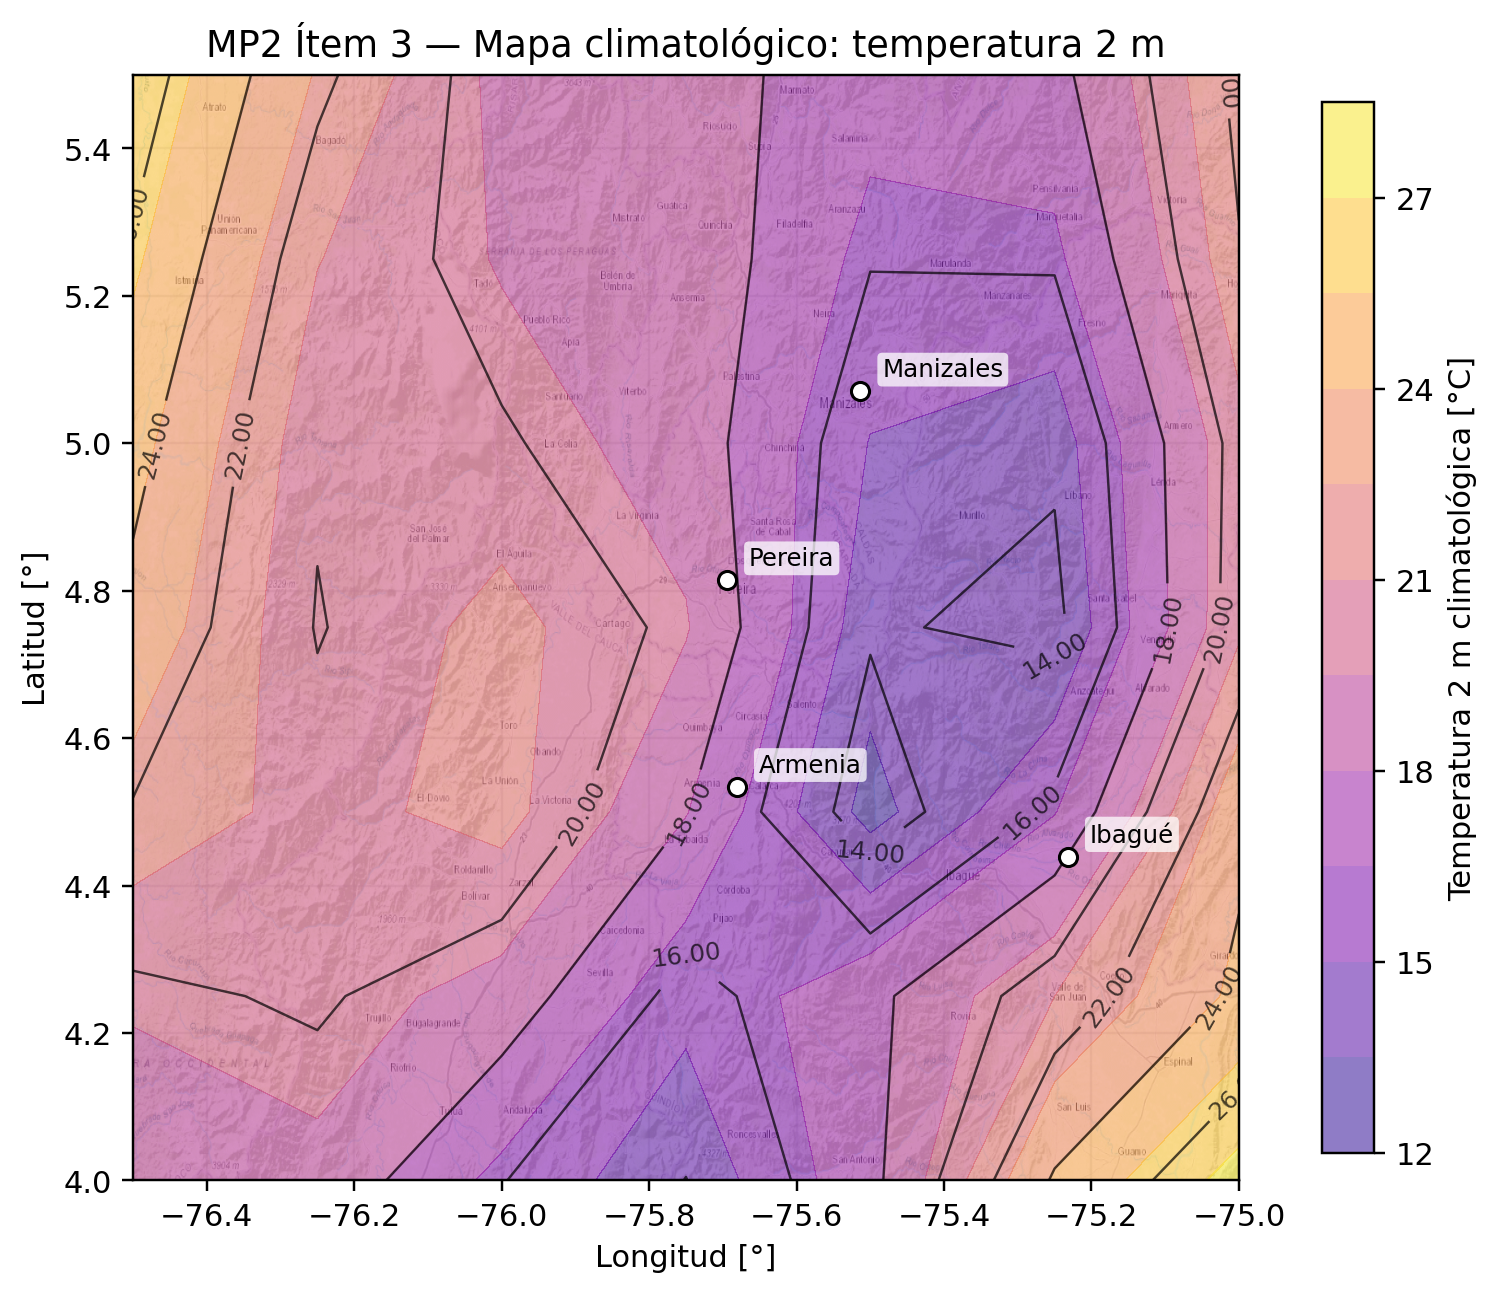
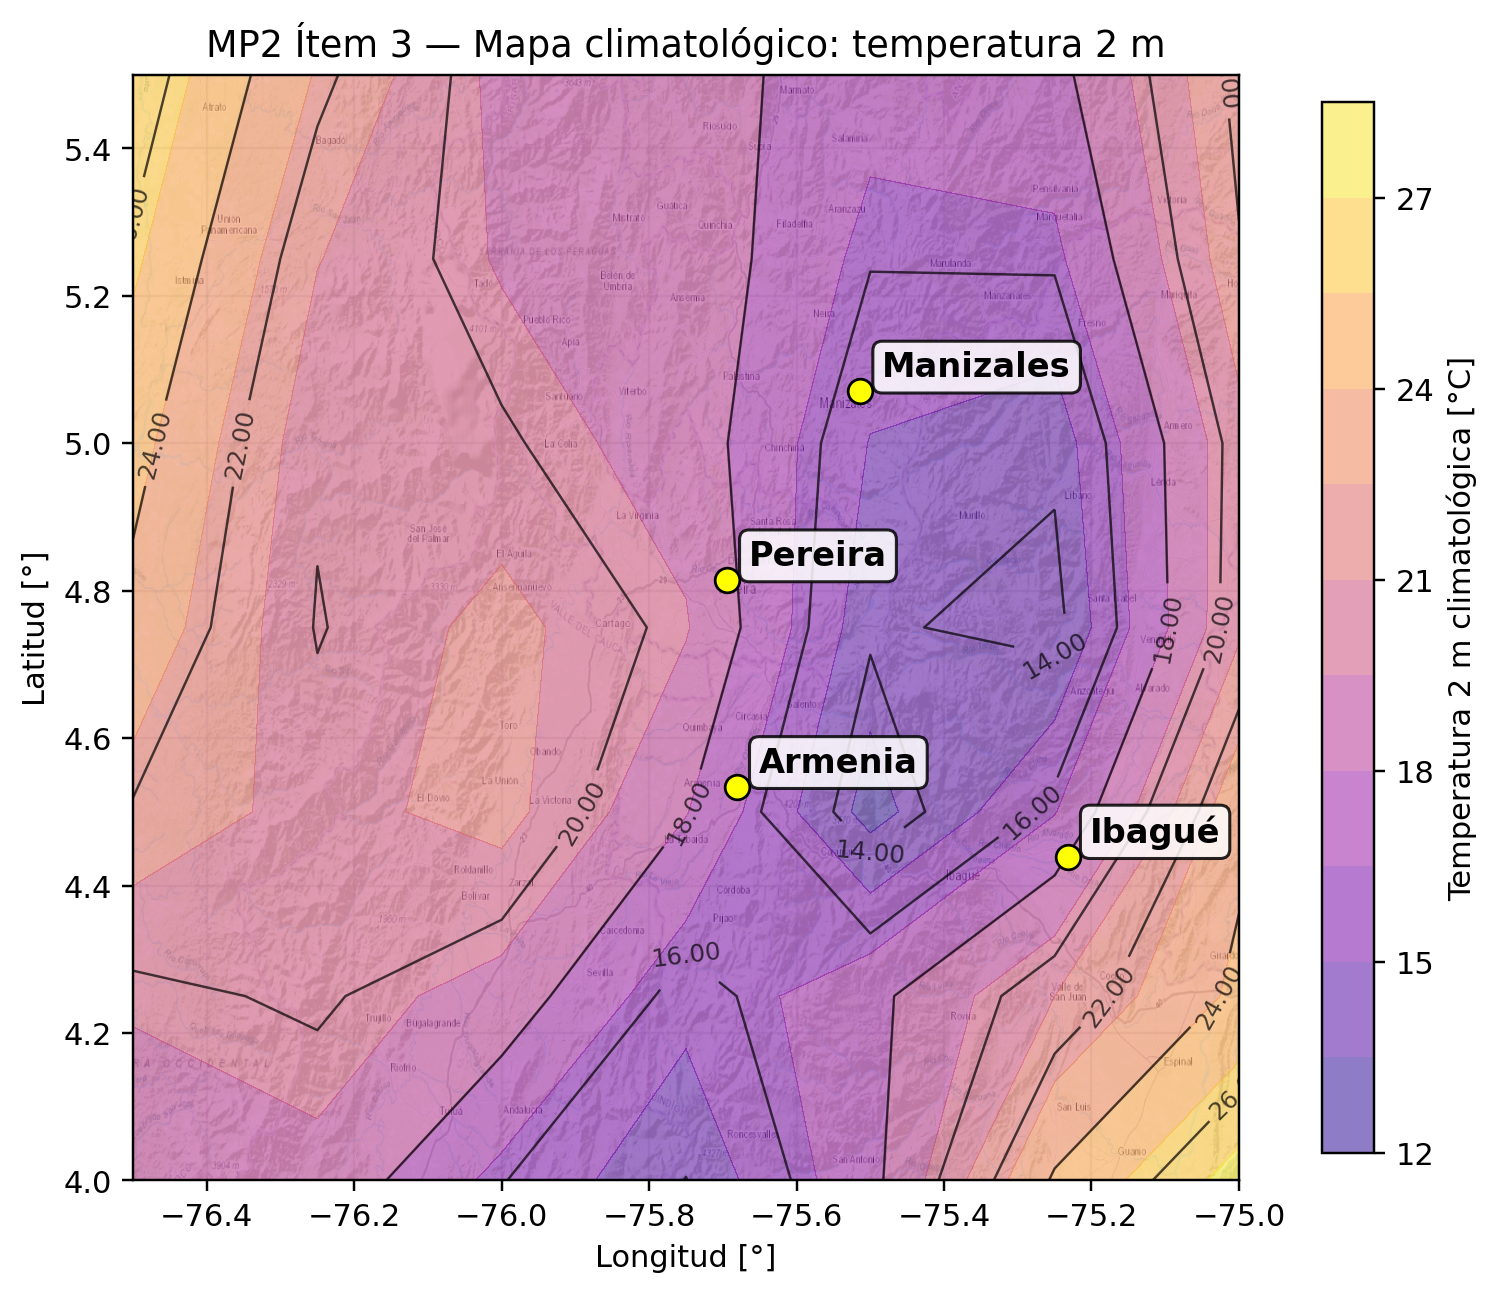
MP2: aumentar tamaño de labels de ciudades en mapas

diff --git a/proyecto 2/scripts/python/03_climatologias_regionales.py b/proyecto 2/scripts/python/03_climatologias_regionales.py
@@ -61,9 +61,17 @@ def _download_basemap(lon_min: float, lat_min: float, lon_max: float, lat_max: f
 def _annotate_cities(ax, lon_min: float, lat_min: float, lon_max: float, lat_max: float) -> None:
     for name, (lat, lon) in CITIES.items():
         if lat_min <= lat <= lat_max and lon_min <= lon <= lon_max:
-            ax.scatter(lon, lat, s=35, c="white", edgecolors="black", zorder=6)
-            ax.text(lon + 0.03, lat + 0.02, name, fontsize=8, color="black", zorder=7,
-                    bbox=dict(boxstyle="round,pad=0.2", fc="white", ec="none", alpha=0.75))
+            ax.scatter(lon, lat, s=65, c="yellow", edgecolors="black", linewidths=0.9, zorder=6)
+            ax.text(
+                lon + 0.03,
+                lat + 0.02,
+                name,
+                fontsize=11,
+                fontweight="bold",
+                color="black",
+                zorder=7,
+                bbox=dict(boxstyle="round,pad=0.28", fc="white", ec="black", alpha=0.85),
+            )
 
 
 def _open_dataset(nc_path: Path) -> xr.Dataset:
